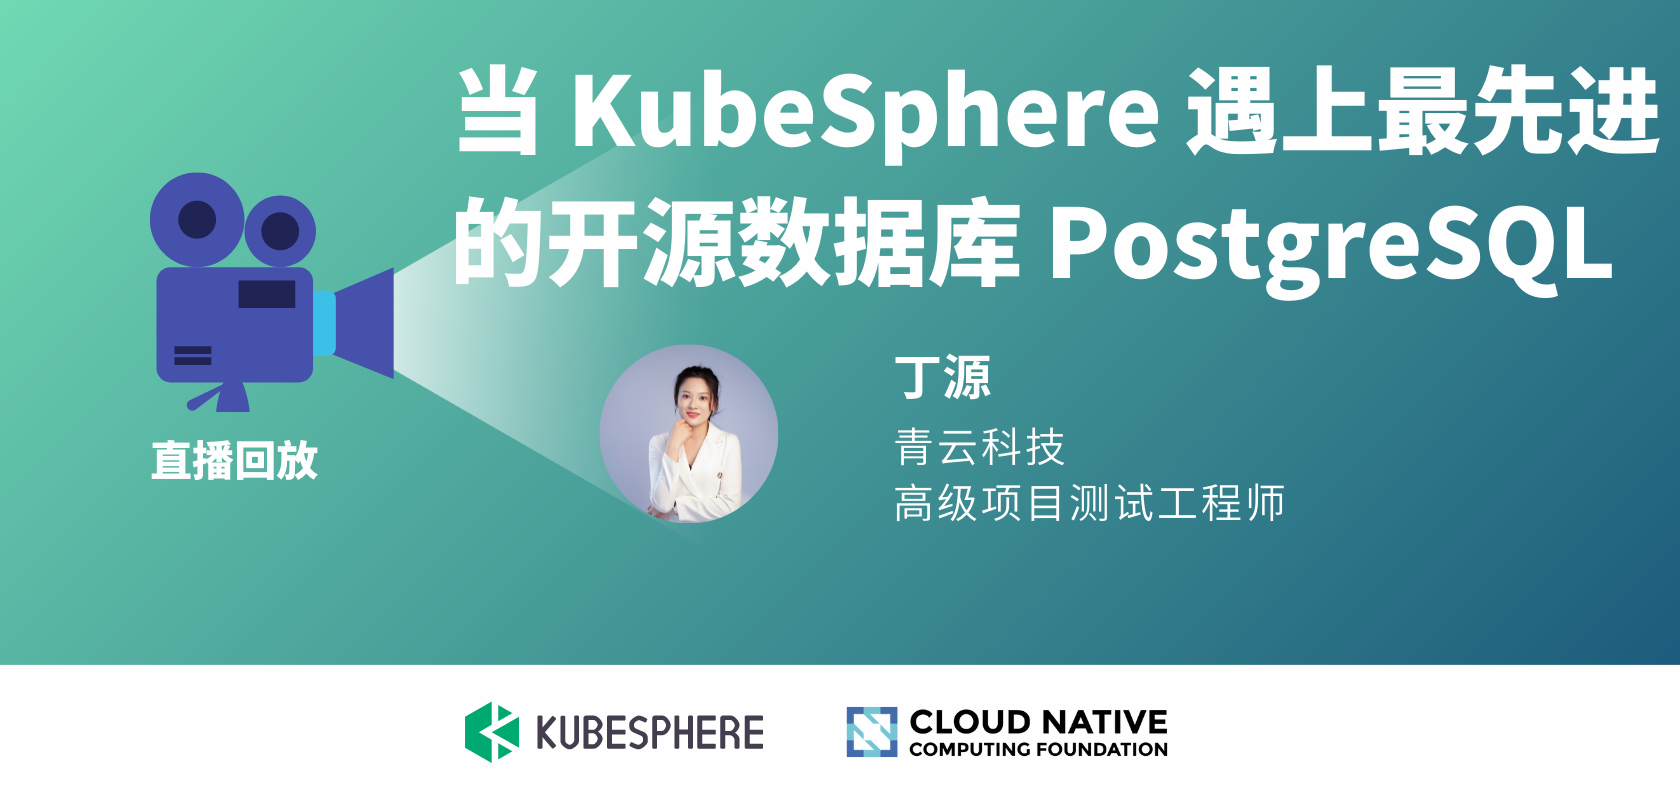
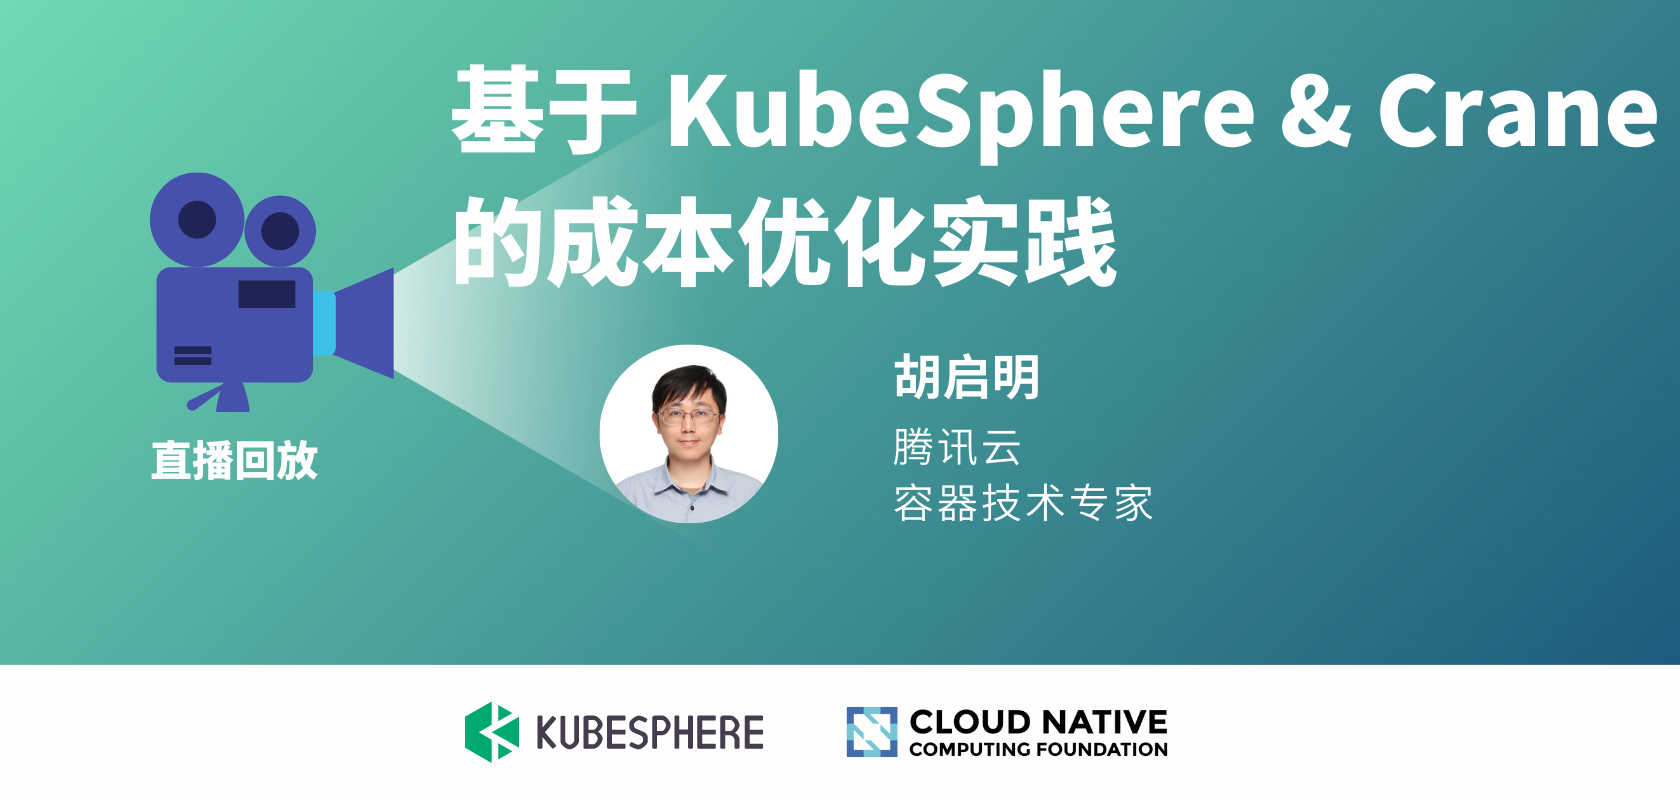
update the page of live

diff --git a/content/zh/live/zadig0721-live.md b/content/zh/live/zadig0721-live.md
@@ -1,0 +1,35 @@
+---
+title: 基于 Zadig 打造云原生 DevOps 平台
+description: 本次分享介绍开源、云原生持续交付平台 Zadig ，它主要基于 K8s 打造，面向开发者体验的云原生平台。本次分享它的设计理念、业务架构、解决什么问题、技术架构、使用场景等。
+keywords: KubeSphere, Kubernetes, DevOps, Zadig
+css: scss/live-detail.scss
+
+section1:
+  snapshot: 
+  videoUrl: 
+  type: iframe
+  time: 2022-07-21 20:00-21:00
+  timeIcon: /images/live/clock.svg
+  base: 线上
+  baseIcon: /images/live/base.svg
+---
+## 分享内容简介
+
+本次分享介绍开源、云原生持续交付平台 Zadig ，它主要基于 K8s 打造，面向开发者体验的云原生平台。本次分享它的设计理念、业务架构、解决什么问题、技术架构、使用场景等。
+
+## 讲师简介
+
+MinMin，KodeRover Golang 开发工程师，Zadig Maintainer。
+
+## 分享大纲
+
+![](https://pek3b.qingstor.com/kubesphere-community/images/zadig0721-live.png)
+
+## 直播时间
+
+2022 年 07 月 21 日 20:00-21:00
+
+## 直播地址
+
+B 站  http://live.bilibili.com/22580654
+

diff --git a/content/zh/live/_index.md b/content/zh/live/_index.md
@@ -10,22 +10,29 @@ section1:
 
 section2:
   image: /images/live/cloudnative-live-banner.png
-  url: ./pg0707-live/
+  url: ./crane0714-live/
 
   notice:
-    title: 基于 KubeSphere & Crane 的成本优化实践
+    title: 基于 Zadig 打造云原生 DevOps 平台
     tag: 预告
-    time: 2022 年 07 月 14 日晚 8 点
+    time: 2022 年 07 月 21 日晚 8 点
     base: 线上
-    url: ./crane0714-live/
+    url: ./zadig0721-live/
 
   over:
-    title: KubeSphere 3.3.0 社区交流会
+    title: 当 KubeSphere 遇上最先进的开源数据库 PostgreSQL
     tag: 结束
-    url: ./kubesphere-v3.3.0-live/
+    url: ./pg0707-live/
 
 section3:
   videos:
+    - title: 基于 KubeSphere & Crane 的成本优化实践
+      link: ./crane0714-live/
+      snapshot: https://pek3b.qingstor.com/kubesphere-community/images/crane0714-live-cover.png
+      type: iframe
+      createTime: 2022.07.14
+      group: 直播回放
+
     - title: 当 KubeSphere 遇上最先进的开源数据库 PostgreSQL
       link: ./pg0707-live/
       snapshot: https://pek3b.qingstor.com/kubesphere-community/images/pg0707-live-cover.png
